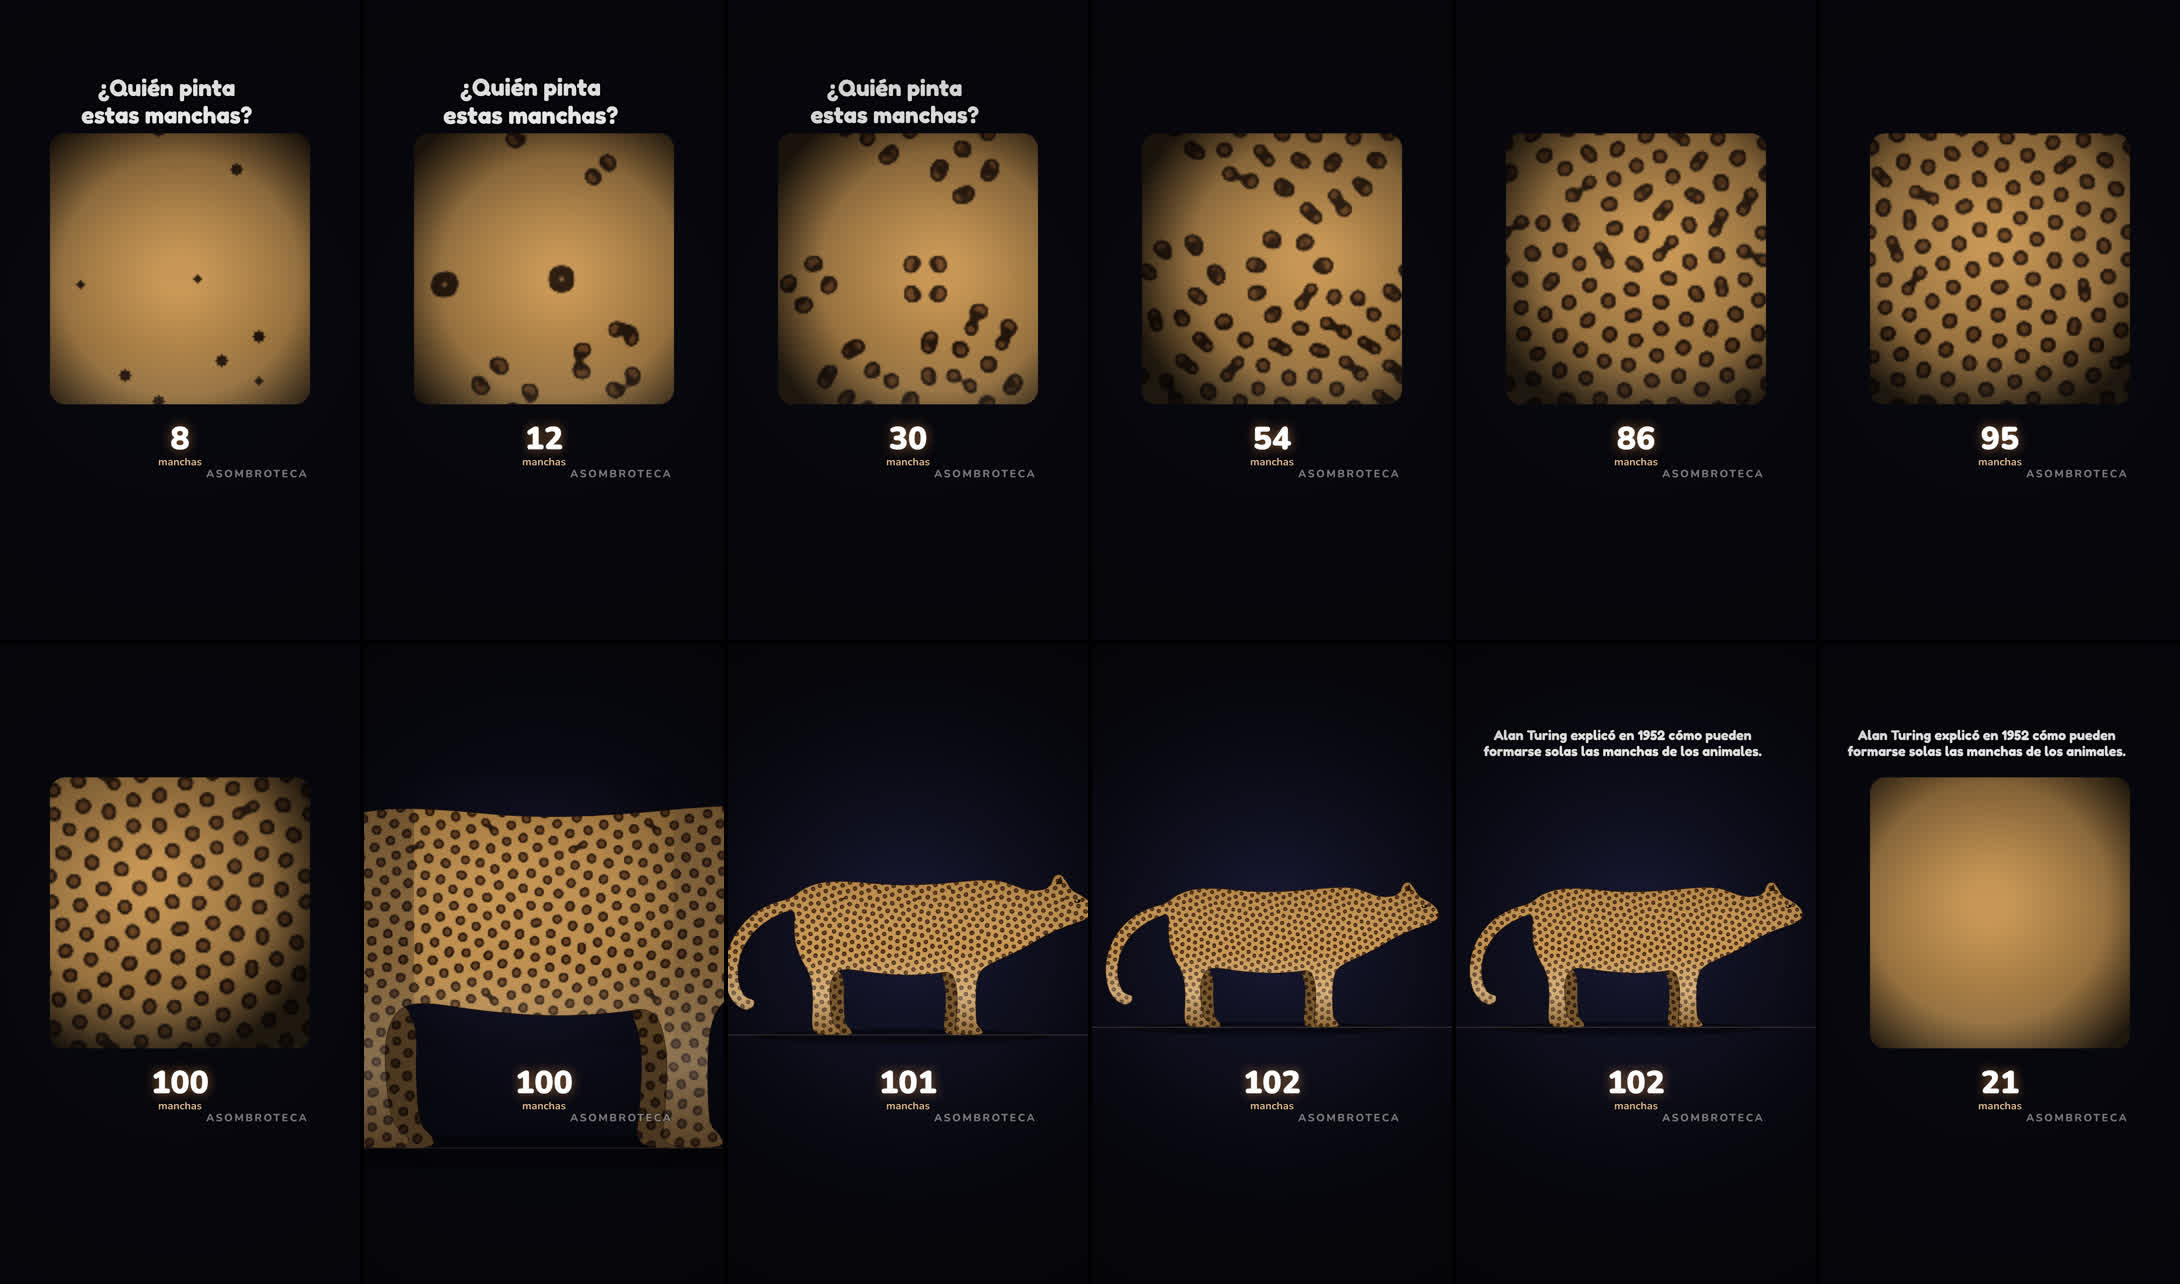
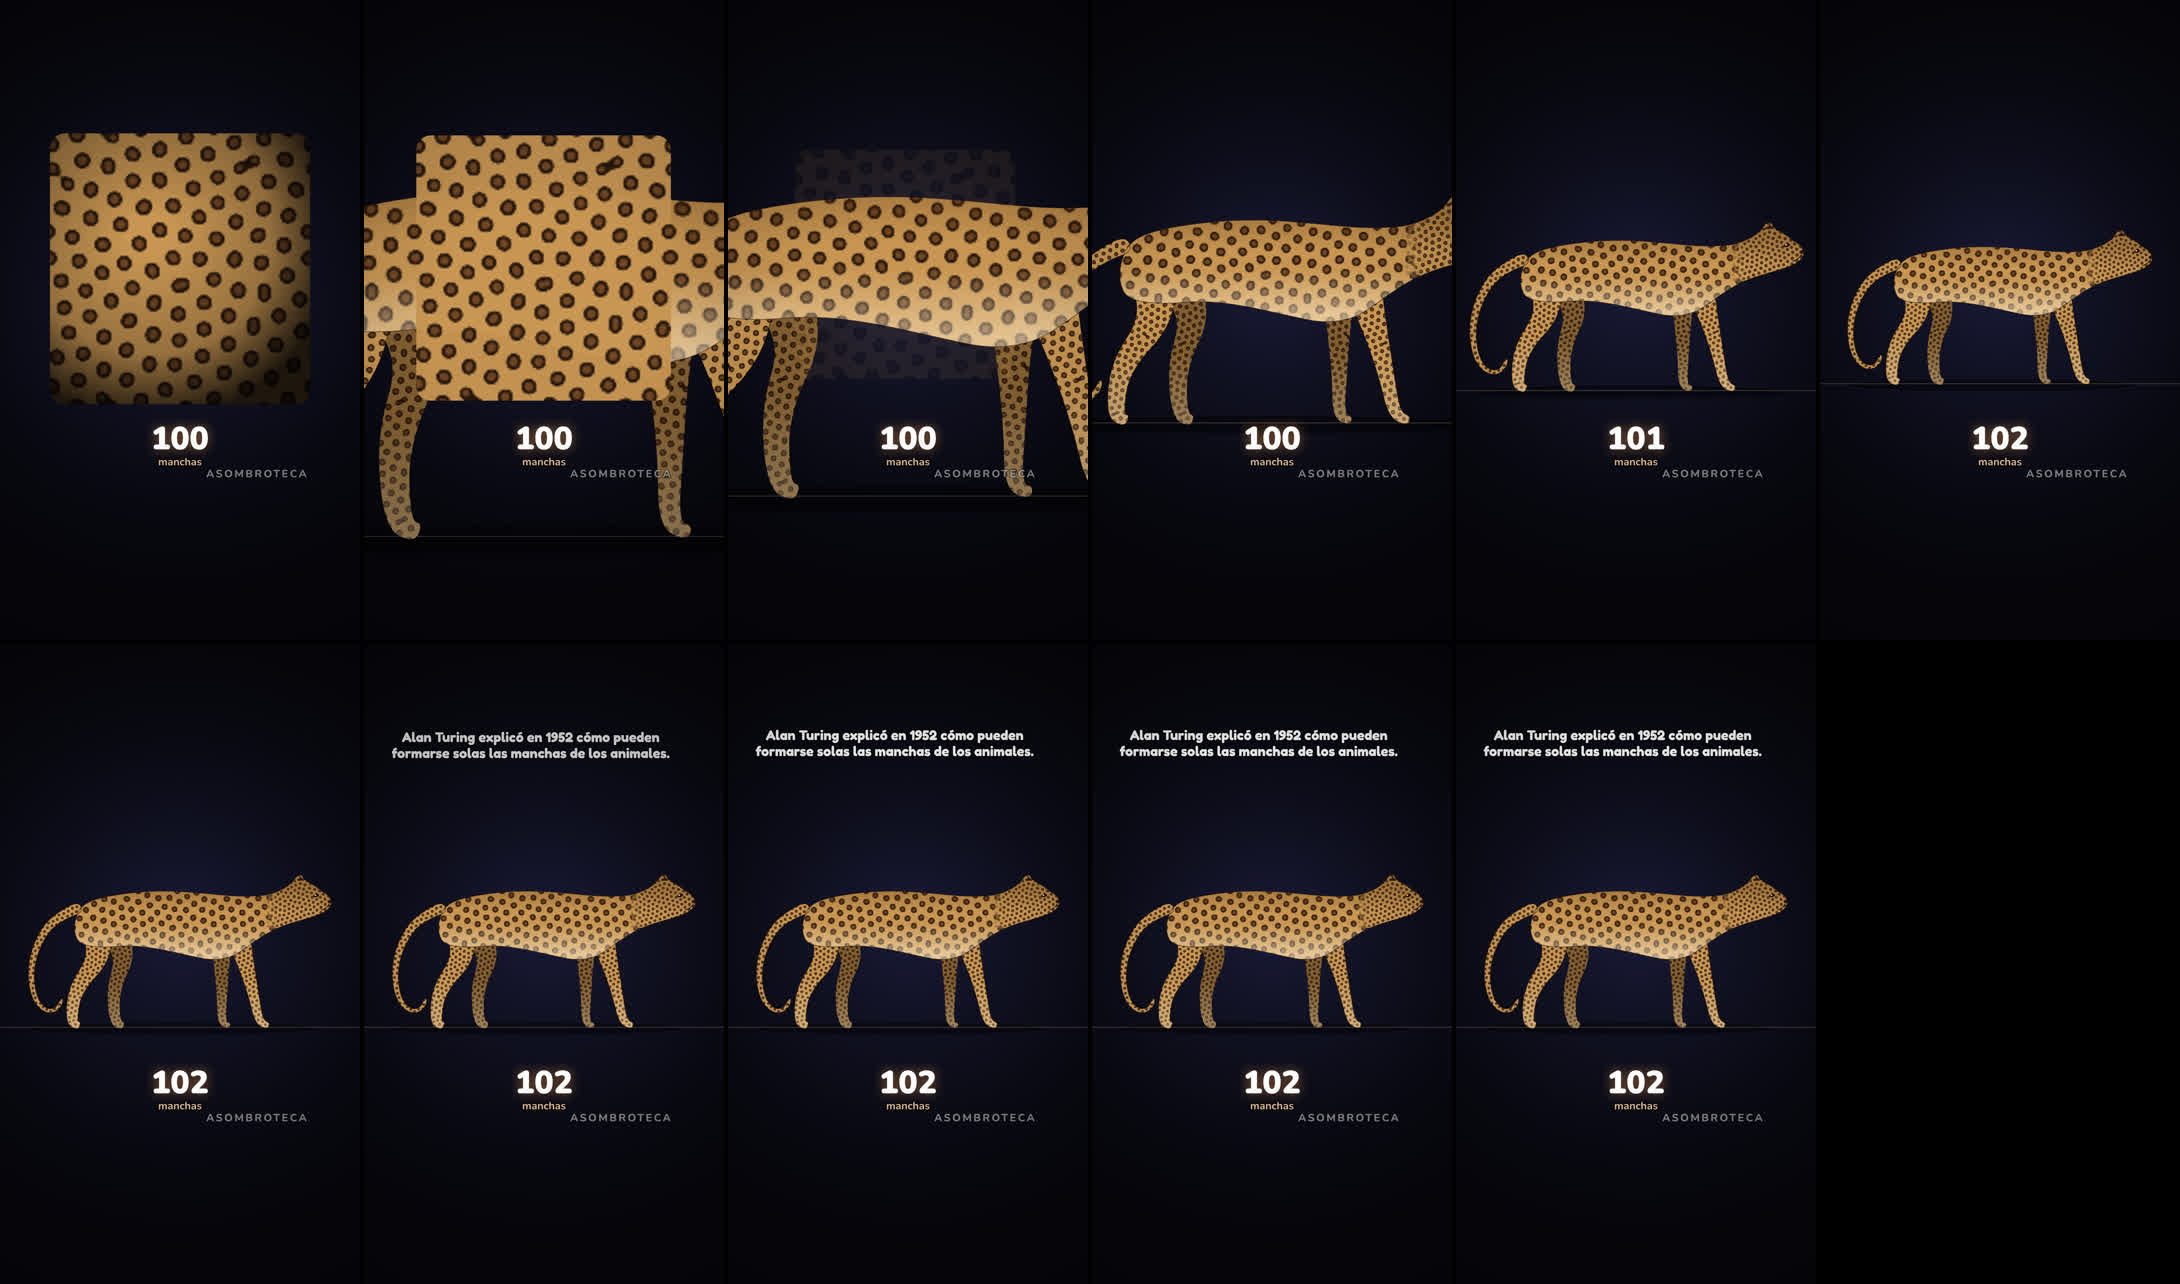
SIN_VOZ 2.4.1 (en curso): Turing con leopardo rediseñado (felino estilizado caminando, manchas grandes en el cuerpo y pequeñas en patas, cabeza y cola)
Claude-Session: https://claude.ai/code/session_01KohciLZeBRd7rwhuESxzdC

diff --git a/PLANTILLA_ASOMBROTECA_SIN_VOZ/ejemplos/SIM_TURING_REEL/04_CODIGO/js/episodio.js b/PLANTILLA_ASOMBROTECA_SIN_VOZ/ejemplos/SIM_TURING_REEL/04_CODIGO/js/episodio.js
@@ -21,18 +21,21 @@
  const LUT = new Uint8Array(256 * 3); for (let i = 0; i < 256; i++) { const v = i / 510; let c;
   if (v < 0.12) c = piel; else if (v < 0.2) { const q = E.inOut((v - 0.12) / 0.08); c = piel.map((a, j) => lerp(a, borde[j], q)); } else if (v < 0.28) c = borde; else { const q = E.inOut(cl((v - 0.28) / 0.08)); c = borde.map((a, j) => lerp(a, centro[j], q)); }
   for (let j = 0; j < 3; j++) LUT[3 * i + j] = Math.round(c[j]); }
- // ---------- LEOPARDO (silueta original, de perfil, de pie sobre el suelo) y cámara que se aleja ----------
- const LP = [[985,300],[978,280],[955,262],[930,250],[918,228],[905,210],[888,214],[880,238],[862,250],[820,250],[760,225],[700,225],[600,235],[500,238],[400,228],[330,228],[280,245],[255,268],
-  [200,282],[150,312],[110,362],[90,422],[92,482],[110,522],[140,542],[160,534],[165,515],[140,510],[124,478],[122,430],[137,382],[172,337],[222,307],[262,295],
-  [258,335],[262,385],[280,425],[300,460],[305,520],[300,580],[312,600],[372,600],[370,585],[352,575],[345,520],[345,475],[360,445],[390,440],
-  [450,450],[530,456],[600,452],[640,445],[655,490],[652,560],[648,588],[660,600],[718,600],[712,585],[700,575],[698,520],[700,470],[712,440],
-  [750,420],[800,398],[840,375],[880,352],[915,338],[945,328],[965,320],[980,312]];
- const PATAS = [[[300,430],[330,450],[345,505],[340,560],[338,588],[350,600],[400,600],[396,586],[382,575],[378,520],[380,465],[360,435]],
-  [[610,440],[628,485],[624,560],[620,588],[632,600],[680,600],[676,586],[664,575],[662,520],[664,475],[650,440]]];
- const LX = (x) => 40 + (x - 90) * 1.12, LY = (y) => 1150 - (600 - y) * 1.12, SUELO = LY(600);
+ // ---------- LEOPARDO (silueta original de perfil, caminando: una pata delantera adelantada) y cámara que se aleja ----------
+ // Tronco, cuello y cabeza en un contorno; patas y cola desde su línea central con grosores. Manchas grandes en el tronco y
+ // pequeñas en patas, cabeza y cola (el mismo patrón de la simulación, a dos escalas).
+ const TRONCO = [[975,272],[968,256],[950,246],[934,232],[915,222],[904,214],[897,201],[885,204],[875,220],[856,236],[815,254],[775,258],[720,258],[640,250],[560,244],[480,246],[400,256],[345,270],[318,290],
+  [306,322],[304,352],[318,384],[380,392],[450,386],[520,394],[600,412],[660,425],[712,418],[748,396],[780,372],[815,350],[850,334],[890,322],[925,312],[952,302],[966,292],[974,282]];
+ const linea = (c) => { const L = [], Rr = []; for (let i = 0; i < c.length; i++) { const a = c[Math.max(0, i - 1)], b = c[Math.min(c.length - 1, i + 1)], dx = b[0] - a[0], dy = b[1] - a[1], m = Math.hypot(dx, dy) || 1, nx = -dy / m, ny = dx / m, w = c[i][2] / 2;
+   L.push([c[i][0] + nx * w, c[i][1] + ny * w]); Rr.push([c[i][0] - nx * w, c[i][1] - ny * w]); } return L.concat(Rr.reverse()); };
+ const PATA = (hx, hy, kx, ky, ax, ay, px, py, fx, w0) => linea([[hx, hy, w0], [kx, ky, w0 * 0.62], [ax, ay, w0 * 0.4], [px, py, w0 * 0.33], [fx, 597, w0 * 0.26]]);
+ const PATAS_LEJOS = [PATA(395, 330, 440, 412, 405, 500, 410, 588, 432, 84), PATA(690, 350, 688, 435, 690, 518, 688, 588, 710, 64)];   // del otro lado (más oscuras)
+ const PATAS_CERCA = [PATA(360, 330, 372, 418, 305, 502, 296, 588, 318, 92), PATA(728, 350, 752, 435, 772, 515, 786, 586, 812, 68)];    // trasera estirada atrás, delantera adelantada
+ const COLA = linea([[322, 286, 30], [282, 302, 26], [236, 334, 22], [204, 390, 19], [190, 452, 16], [196, 510, 14], [214, 546, 12], [242, 560, 11], [264, 548, 10], [272, 526, 9]]);
+ const LX = (x) => 80 + (x - 180) * 1.15, LY = (y) => 1150 - (600 - y) * 1.15, SUELO = LY(600);
  const camino = (ctx, pts) => { const q = pts.map(([x, y]) => [LX(x), LY(y)]), n = q.length, m = (a, b) => [(a[0] + b[0]) / 2, (a[1] + b[1]) / 2];
   ctx.beginPath(); let p = m(q[n - 1], q[0]); ctx.moveTo(p[0], p[1]); for (let i = 0; i < n; i++) { const c = q[i], e = m(q[i], q[(i + 1) % n]); ctx.quadraticCurveTo(c[0], c[1], e[0], e[1]); } ctx.closePath(); };
- const WW = 200, WH = WW * AH / AW, PC = [LX(510), LY(342)], LC = [540, 900], Z0 = AW / WW, CW = [540, Y0 + AH / 2];   // ventana inicial: un trozo del lomo
+ const WW = 300, WH = WW * AH / AW, PC = [LX(560), LY(325)], LC = [540, 920], Z0 = AW / WW, CW = [540, Y0 + AH / 2];   // el trozo de piel inicial es un trozo del lomo
  const T_Z0 = 19.0, T_Z1 = 22.4, T_B0 = D - 3.6, T_B1 = D - 1.4;   // se aleja antes de la frase y vuelve a acercarse para el empalme
  const zoomE = (t) => E.inOut(cl((t - T_Z0) / (T_Z1 - T_Z0))) * (1 - E.inOut(cl((t - T_B0) / (T_B1 - T_B0))));
 
@@ -40,28 +43,36 @@
   const f = Math.min(NF - 1, Math.round(t * 30)), off = f * GW * GH, fin = 1 - sm(D - 2.6, D - 0.9, t), d = img.data;   // al final la piel vuelve a quedar lisa
   for (let i = 0; i < GW * GH; i++) { const j = Math.round(S.v[off + i] * fin), o = 4 * i; d[o] = LUT[3 * j]; d[o + 1] = LUT[3 * j + 1]; d[o + 2] = LUT[3 * j + 2]; d[o + 3] = 255; }
   c2.putImageData(img, 0, 0);
-  const e = zoomE(t), z = Math.exp(lerp(Math.log(Z0), 0, e)), cs = [lerp(CW[0], LC[0], e), lerp(CW[1], LC[1], e)], wc = [lerp(PC[0], LC[0], e), lerp(PC[1], LC[1], e)];
-  const pat = ctx.createPattern(cv, 'repeat'); pat.setTransform(new DOMMatrix().translate(PC[0] - WW / 2, PC[1] - WH / 2).scale(WW / GW, WH / GH));
-  ctx.save(); ctx.imageSmoothingEnabled = true; ctx.imageSmoothingQuality = 'high';
-  ctx.translate(cs[0], cs[1]); ctx.scale(z, z); ctx.translate(-wc[0], -wc[1]);
-  // suelo y sombra (el leopardo está de pie)
-  ctx.fillStyle = 'rgba(0,0,0,0.45)'; ctx.beginPath(); ctx.ellipse(LX(520), SUELO + 4, 400, 20, 0, 0, TAU); ctx.fill();
-  ctx.strokeStyle = 'rgba(160,140,120,0.35)'; ctx.lineWidth = 3 / z; ctx.beginPath(); ctx.moveTo(-200, SUELO); ctx.lineTo(1280, SUELO); ctx.stroke();
-  // patas del otro lado (más oscuras), cuerpo con las manchas de la simulación, vientre más claro
-  for (const pt of PATAS) { camino(ctx, pt); ctx.fillStyle = pat; ctx.fill(); ctx.fillStyle = 'rgba(20,10,0,0.45)'; ctx.fill(); }
-  camino(ctx, LP); ctx.fillStyle = pat; ctx.fill();
-  ctx.save(); camino(ctx, LP); ctx.clip(); const gv = ctx.createLinearGradient(0, LY(225), 0, LY(600)); gv.addColorStop(0, 'rgba(60,30,0,0.15)'); gv.addColorStop(0.45, 'rgba(255,240,215,0)'); gv.addColorStop(0.75, 'rgba(255,240,215,0.3)'); gv.addColorStop(1, 'rgba(30,15,0,0.35)'); ctx.fillStyle = gv; ctx.fillRect(0, LY(100), 1080, 700); ctx.restore();
-  camino(ctx, LP); ctx.strokeStyle = 'rgba(30,15,5,0.6)'; ctx.lineWidth = 2.5 / z; ctx.stroke();
-  // ojo, nariz y oreja
-  ctx.fillStyle = '#1a0e05'; ctx.beginPath(); ctx.ellipse(LX(945), LY(276), 9, 5, -0.15, 0, TAU); ctx.fill(); ctx.fillStyle = '#e8c070'; ctx.beginPath(); ctx.arc(LX(943), LY(275), 2.8, 0, TAU); ctx.fill();
-  ctx.fillStyle = '#2a1608'; ctx.beginPath(); ctx.ellipse(LX(981), LY(299), 7, 5, 0, 0, TAU); ctx.fill(); ctx.strokeStyle = '#2a1608'; ctx.lineWidth = 2.5 / z; ctx.beginPath(); ctx.moveTo(LX(982), LY(304)); ctx.quadraticCurveTo(LX(976), LY(316), LX(962), LY(318)); ctx.stroke();
-  ctx.beginPath(); ctx.moveTo(LX(904), LY(216)); ctx.lineTo(LX(892), LY(236)); ctx.lineTo(LX(910), LY(234)); ctx.closePath(); ctx.fill();
-  ctx.restore();
-  // al principio solo se ve un trozo del lomo (ventana), con luz de estudio; al alejarse, aparece el leopardo entero
-  const wa = 1 - sm(0, 0.55, e); if (wa > 0.01) { ctx.save(); ctx.globalAlpha = wa;
+  const e = zoomE(t);
+  if (e < 0.001) {   // trozo de piel con luz de estudio (como hasta ahora)
+   ctx.save(); ctx.beginPath(); ctx.roundRect(X0, Y0, AW, AH, 46); ctx.clip(); ctx.imageSmoothingEnabled = true; ctx.imageSmoothingQuality = 'high'; ctx.drawImage(cv, X0, Y0, AW, AH);
    const lx = 540 + 120 * Math.sin(t * 0.21), ly = Y0 + AH * (0.45 + 0.08 * Math.cos(t * 0.17)), g = ctx.createRadialGradient(lx, ly, 60, lx, ly, AW * 0.72); g.addColorStop(0, 'rgba(0,0,0,0)'); g.addColorStop(0.6, 'rgba(0,0,0,0.25)'); g.addColorStop(1, 'rgba(0,0,0,0.85)');
-   ctx.save(); ctx.beginPath(); ctx.roundRect(X0, Y0, AW, AH, 46); ctx.clip(); ctx.fillStyle = g; ctx.fillRect(X0, Y0, AW, AH); ctx.restore();
-   ctx.beginPath(); ctx.rect(0, 0, 1080, 1920); ctx.roundRect(X0, Y0, AW, AH, 46); ctx.fillStyle = '#07070d'; ctx.fill('evenodd'); ctx.restore(); }
+   ctx.fillStyle = g; ctx.fillRect(X0, Y0, AW, AH); ctx.restore();
+  } else {
+   const z = Math.exp(lerp(Math.log(Z0), 0, e)), cs = [lerp(CW[0], LC[0], e), lerp(CW[1], LC[1], e)], wc = [lerp(PC[0], LC[0], e), lerp(PC[1], LC[1], e)];
+   const patG = ctx.createPattern(cv, 'repeat'); patG.setTransform(new DOMMatrix().translate(PC[0] - WW / 2, PC[1] - WH / 2).scale(WW / GW, WH / GH));          // manchas grandes (tronco)
+   const patP = ctx.createPattern(cv, 'repeat'); patP.setTransform(new DOMMatrix().translate(PC[0], PC[1]).scale(0.45 * WW / GW, 0.45 * WH / GH));              // manchas pequeñas (patas, cabeza, cola)
+   ctx.save(); ctx.imageSmoothingEnabled = true; ctx.imageSmoothingQuality = 'high'; ctx.translate(cs[0], cs[1]); ctx.scale(z, z); ctx.translate(-wc[0], -wc[1]);
+   ctx.fillStyle = 'rgba(0,0,0,0.45)'; ctx.beginPath(); ctx.ellipse(LX(560), SUELO + 4, 430, 18, 0, 0, TAU); ctx.fill();
+   ctx.strokeStyle = 'rgba(160,140,120,0.35)'; ctx.lineWidth = 3 / z; ctx.beginPath(); ctx.moveTo(-300, SUELO); ctx.lineTo(1380, SUELO); ctx.stroke();
+   const claro = (pts, y0, y1, a) => { ctx.save(); camino(ctx, pts); ctx.clip(); const g = ctx.createLinearGradient(0, LY(y0), 0, LY(y1)); g.addColorStop(0, 'rgba(255,238,205,0)'); g.addColorStop(1, `rgba(255,238,205,${a})`); ctx.fillStyle = g; ctx.fillRect(-300, LY(y0), 1700, LY(y1) - LY(y0) + 40); ctx.restore(); };
+   const pieza = (pts, pat, osc) => { camino(ctx, pts); ctx.fillStyle = pat; ctx.fill(); if (osc) { ctx.fillStyle = `rgba(25,12,0,${osc})`; ctx.fill(); } };
+   for (const pt of PATAS_LEJOS) { pieza(pt, patP, 0.4); claro(pt, 480, 600, 0.25); }
+   pieza(COLA, patP, 0);
+   for (const pt of PATAS_CERCA) { pieza(pt, patP, 0); claro(pt, 470, 600, 0.3); camino(ctx, pt); ctx.strokeStyle = 'rgba(30,15,5,0.55)'; ctx.lineWidth = 2.2 / z; ctx.stroke(); }   // su contorno queda debajo del cuerpo
+   pieza(TRONCO, patG, 0);
+   ctx.save(); camino(ctx, TRONCO); ctx.clip(); ctx.fillStyle = patP; for (let q = 0; q < 8; q++) { ctx.globalAlpha = (q + 1) / 8; ctx.fillRect(LX(800 + q * 8), LY(180), LX(1000) - LX(800 + q * 8), LY(340) - LY(180)); } ctx.globalAlpha = 1; ctx.restore();   // cabeza y cuello: manchas pequeñas (transición gradual)
+   claro(TRONCO, 330, 410, 0.55);   // vientre más claro
+   ctx.save(); camino(ctx, TRONCO); ctx.clip(); const gs = ctx.createLinearGradient(0, LY(240), 0, LY(300)); gs.addColorStop(0, 'rgba(60,30,0,0.25)'); gs.addColorStop(1, 'rgba(60,30,0,0)'); ctx.fillStyle = gs; ctx.fillRect(-300, LY(200), 1700, 200); ctx.restore();   // lomo algo más oscuro
+   ctx.strokeStyle = 'rgba(30,15,5,0.55)'; ctx.lineWidth = 2.2 / z; for (const pt of [TRONCO, COLA]) { camino(ctx, pt); ctx.stroke(); }
+   // ojo, nariz, boca y oreja
+   ctx.fillStyle = '#1a0e05'; ctx.beginPath(); ctx.ellipse(LX(935), LY(256), 9, 5, -0.2, 0, TAU); ctx.fill(); ctx.fillStyle = '#e8c070'; ctx.beginPath(); ctx.arc(LX(933), LY(255), 2.8, 0, TAU); ctx.fill();
+   ctx.fillStyle = '#2a1608'; ctx.beginPath(); ctx.ellipse(LX(971), LY(272), 7, 5, 0, 0, TAU); ctx.fill(); ctx.strokeStyle = '#2a1608'; ctx.lineWidth = 2.4 / z; ctx.beginPath(); ctx.moveTo(LX(970), LY(277)); ctx.quadraticCurveTo(LX(964), LY(290), LX(948), LY(294)); ctx.stroke();
+   ctx.beginPath(); ctx.moveTo(LX(895), LY(206)); ctx.lineTo(LX(887), LY(218)); ctx.lineTo(LX(900), LY(217)); ctx.closePath(); ctx.fillStyle = '#2a1608'; ctx.fill();
+   // el trozo de piel inicial se funde con el lomo al empezar a alejarse
+   const pa = 1 - sm(0, 0.22, e); if (pa > 0.01) { ctx.globalAlpha = pa; ctx.save(); ctx.beginPath(); ctx.roundRect(PC[0] - WW / 2, PC[1] - WH / 2, WW, WH, 46 / Z0); ctx.clip(); ctx.drawImage(cv, PC[0] - WW / 2, PC[1] - WH / 2, WW, WH); ctx.restore(); ctx.globalAlpha = 1; }
+   ctx.restore();
+  }
   R.contador(ctx, t, Math.round(S.manchas[f] * fin), { x: 540, y: 1325, px: 96, glow: '255,170,80' });
   R.chico(ctx, 'manchas', 540, 1388, { px: 32, col: 'rgba(255,215,170,0.9)', kind: 'unidad' });
   R.pregunta(ctx, t, { y: 300, px: 72 }); R.frase(ctx, t, { y: 300, px: 42 });
